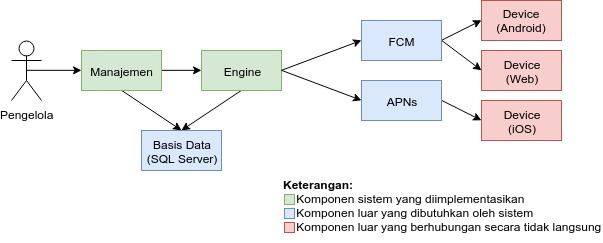
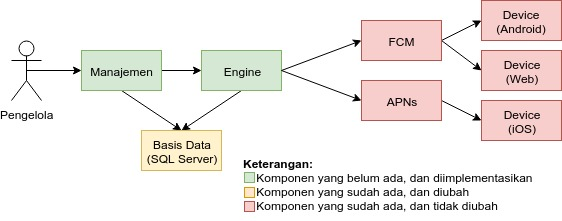
use case + revisi arsitektur

diff --git a/buku/bab3/bab3.tex b/buku/bab3/bab3.tex
@@ -21,7 +21,7 @@ Analisis yang dilakukan meliputi analisis permasalahan, deskripsi umum sistem, d
 
 \subsection{Deskripsi Umum Sistem}
 \par Push Notification Terpusat merupakan layanan yang digunakan untuk mengirim \textit{push notification} ke perangkat pengguna secara terjadwal dan \textit{asynchronous}. Alur pengiriman \textit{push notification} diawali dengan pengelola memasukkan data \textit{batch} (notifikasi yang dikirim ke beberapa pengguna atau kelompok pengguna) ke sistem basis data, lalu sistem akan mengolah data \textit{batch} menjadi \textit{packet-packet} (notifikasi yang dikirim ke satu perangkat pengguna). Setelah \textit{packet} dibuat, sistem akan mengirimkan \textit{packet} ke perangkat pengguna lewat layanan APNs dan FCM.
-\par Pada tugas akhir ini, aplikasi akan dibagi menjadi 3 modul, yaitu Scheduler, Sender APN, dan Sender FCM. Secara umum, Scheduler bertanggung jawab untuk menjadwalkan dan mengantrikan \textit{packet}, Sender APN bertanggung jawab untuk mengirimkan \textit{packet} yang diantrikan ke perangkat iOS lewat layanan APNs, dan Sender FCM bertanggung jawab untuk mengirimkan \textit{packet} yang diantrikan ke perangkat Android dan Web lewat layanan FCM.
+\par Pada tugas akhir ini, modul \textit{engine} pada Push Notification Terpusat akan dipecah menjadi 3 modul, yaitu Scheduler, Sender APN, dan Sender FCM. Secara umum, Scheduler bertanggung jawab untuk menjadwalkan dan mengantrikan \textit{packet}, Sender APN bertanggung jawab untuk mengirimkan \textit{packet} yang diantrikan ke perangkat iOS lewat layanan APNs, dan Sender FCM bertanggung jawab untuk mengirimkan \textit{packet} yang diantrikan ke perangkat Android dan Web lewat layanan FCM.
 
 \subsection{Spesifikasi Kebutuhan Perangkat Lunak}
 \par Subbab ini membahas spesifikasi kebutuhan perangkat lunak dari hasil analisis yang telah dilakukan. Subbab ini berisi kebutuhan perangkat lunak yang direpresentasikan dalam bentuk kebutuhan fungsional, kebutuhan non fungsional, dan diagram kasus penggunaan.
@@ -31,6 +31,7 @@ Analisis yang dilakukan meliputi analisis permasalahan, deskripsi umum sistem, d
 \begin{longtable}{|p{2cm}|p{7cm}|}
     \caption{Aktor pada Sistem} \label{t:aktor} \\ \hline
     \rowcolor{lightgray} Aktor & Tugas \\ \hline
+    Manajemen & Membuat \textit{batch} dan melakukan pemantauan. \\ \hline
     Scheduler & Membuat dan menjadwalkan pengiriman \textit{packet}. \\ \hline
     Sender APN & Mengirimkan \textit{packet} untuk perangkat iOS. \\ \hline
     Sender FCM & Mengirimkan \textit{packet} notifikasi untuk perangkat Android dan Web. \\ \hline
@@ -63,10 +64,18 @@ Analisis yang dilakukan meliputi analisis permasalahan, deskripsi umum sistem, d
 \end{longtable}
 
 \subsubsection{Kasus Penggunaan}
-\par Subbab ini membahas kasus penggunaan perangkat lunak secara rinci. Kasus penggunaan dibuat berdasarkan hasil analisis yang pada subbab sebelumnya. Diagram kasus penggunaan untuk setiap modul (Scheduler, Sender APN, dan Sender FCM) aplikasi \textit{push notification} terpusat dapat dilihat pada Gambar \ref{diagram_kasus_penggunaan}.
+\par Subbab ini membahas kasus penggunaan perangkat lunak secara rinci. Kasus penggunaan dibuat berdasarkan hasil analisis yang pada subbab sebelumnya. Diagram kasus penggunaan modul Scheduler, Sender APN, dan Sender FCM dapat dilihat pada Gambar \ref{img:uc-scheduler}, \ref{img:uc-sender_apn}, dan \ref{img:uc-sender_fcm}.
 \begin{figure}[H]
-    \includegraphics[width=1\textwidth]{bab3/figures/diagram_kasus_penggunaan.jpg}
-    \caption{Diagram Kasus Penggunaan} \label{diagram_kasus_penggunaan}
+    \centering\includegraphics[width=0.7\textwidth]{bab3/img/usecase-scheduler.jpg}
+    \caption{Diagram Kasus Penggunaan Scheduler} \label{img:uc-scheduler}
+\end{figure}
+\begin{figure}[H]
+	\centering\includegraphics[width=0.7\textwidth]{bab3/img/usecase-sender_apn.jpg}
+	\caption{Diagram Kasus Penggunaan Sender APN} \label{img:uc-sender_apn}
+\end{figure}
+\begin{figure}[H]
+	\centering\includegraphics[width=0.7\textwidth]{bab3/img/usecase-sender_fcm.jpg}
+	\caption{Diagram Kasus Penggunaan Sender FCM} \label{img:uc-sender_fcm}
 \end{figure}
 
 % template tabel deskripsi kasus penggunaan
@@ -90,14 +99,15 @@ Analisis yang dilakukan meliputi analisis permasalahan, deskripsi umum sistem, d
 {t:skenario_pembuatan_packet}
 {UC-01}
 {Pembuatan \textit{Packet}}
-{Scheduler}
+{Manajemen}
 {Terdapat \textit{batch} yang belum dan boleh dibuatkan \textit{packet}}
 {\textit{Packet} dibuat untuk \textit{batch} tersebut}
 {
 \begin{enumerate}
-    \item Aktor memeriksa apakah terdapat \textit{batch} yang belum dan boleh dibuatkan \textit{packet}.
-    \item Aktor membuatkan data \textit{packet} dari batch tersebut.
-    \item Aktor menyimpan data \textit{packet} dan memperbarui data \textit{batch}.
+	\item Aktor menambahkan data \textit{batch} baru ke sistem basis data.
+    \item Scheduler mendeteksi data \textit{batch} yang belum dan boleh dibuatkan \textit{packet}.
+    \item Scheduler membuatkan data \textit{packet} dari \textit{batch} tersebut.
+    \item Scheduler menyimpan data \textit{packet} dan memperbarui data waktu pengolahan \textit{batch}.
 \end{enumerate}
 }
 {-}
@@ -108,14 +118,16 @@ Analisis yang dilakukan meliputi analisis permasalahan, deskripsi umum sistem, d
 {t:skenario_menambahkan_packet_ke_antrian}
 {UC-02}
 {Menambahkan \textit{Packet} ke Antrian}
-{Scheduler}
+{Manajemen}
 {Terdapat \textit{packet} yang belum dan sudah waktunya dikirim}
 {\textit{Packet} ditambahkan ke antrian}
 {
 \begin{enumerate}
-    \item Aktor memeriksa apakah terdapat \textit{packet} yang belum dan sudah waktunya dikirim.
-    \item Aktor menambahkan \textit{packet} ke dalam antrian dengan pembagian topik berdasarkan tipe target perangkat.
-    \item Aktor memperbarui data \textit{packet} (status sedang menunggu).
+    \item Aktor menambahkan data \textit{batch} baru ke sistem basis data.
+    \item Scheduler membuatkan \textit{packet} untuk \textit{batch} tersebut.
+    \item Scheduler mendeteksi data \textit{packet} yang belum dan sudah waktunya dikirim.
+    \item Scheduler memperbarui data status \textit{packet} menjadi menunggu untuk diolah.
+    \item Scheduler menambahkan \textit{packet} ke antrian dengan menggunakan tipe perangkat sebagai topik.
 \end{enumerate}
 }
 {-}
@@ -126,14 +138,15 @@ Analisis yang dilakukan meliputi analisis permasalahan, deskripsi umum sistem, d
 {t:skenario_pengiriman_packet_ke_apns}
 {UC-03}
 {Pengiriman \textit{Packet} ke APNs}
-{Sender APN}
+{Scheduler}
 {Terdapat \textit{packet} di antrian topik iOS}
 {\textit{Packet} diterima oleh layanan APNs}
 {
 \begin{enumerate}
-    \item Aktor menerima \textit{packet} dari antrian topik iOS.
-    \item Aktor mengirimkan \textit{request push notification} ke layanan APNs berdasarkan data \textit{packet}.
-    \item Aktor memperbarui data \textit{packet} berdasarkan \textit{response} dari APNs (berhasil atau gagal dan alasan gagal).
+	\item Aktor menambahkan \textit{packet} ke antrian topik iOS.
+    \item Sender APN menerima \textit{packet} dari antrian topik iOS.
+    \item Sender APN mengirimkan \textit{request push notification} ke layanan APNs berdasarkan data \textit{packet}.
+    \item Sender APN memperbarui data \textit{packet} berdasarkan \textit{response} dari APNs (berhasil atau gagal dan alasan gagal).
 \end{enumerate}
 }
 {-}
@@ -144,69 +157,70 @@ Analisis yang dilakukan meliputi analisis permasalahan, deskripsi umum sistem, d
 {t:skenario_pengiriman_packet_ke_fcm}
 {UC-04}
 {Pengiriman \textit{Packet} ke FCM}
-{Sender FCM}
+{Scheduler}
 {Terdapat \textit{packet} di antrian topik Android atau Web}
 {Packet diterima oleh layanan FCM}
 {
 \begin{enumerate}
-    \item Aktor menerima packet dari antrian topik Android atau Web.
-    \item Aktor mengirimkan \textit{request push notification} ke layanan FCM berdasarkan data \textit{packet}.
-    \item Aktor memperbarui data \textit{packet} berdasarkan \textit{response} dari FCM (berhasil atau gagal dan alasan gagal).
+	\item Aktor menambahkan \textit{packet} ke antrian topik Android atau Web.
+    \item Sender FCM menerima packet dari antrian topik Android atau Web.
+    \item Sender FCM mengirimkan \textit{request push notification} ke layanan FCM berdasarkan data \textit{packet}.
+    \item Sender FCM memperbarui data \textit{packet} berdasarkan \textit{response} dari FCM (berhasil atau gagal dan alasan gagal).
 \end{enumerate}
 }
 {-}
 
 \paragraph{Menampilkan Penggunaan Sumber Daya}
-\par Pada kasus ini, Scheduler, Sender APN, dan Sender FCM dapat menampilkan penggunaan sumber daya (CPU dan Memori) yang digunakan aplikasi dengan menggunakan REST API. Rincian skenario dapat dilihat pada Tabel \ref{t:skenario_menampilkan_penggunaan_sumber_daya}.
+\par Pada kasus ini, Scheduler, Sender APN, dan Sender FCM dapat menampilkan penggunaan sumber daya (CPU dan Memori) yang digunakan aplikasi. Rincian skenario dapat dilihat pada Tabel \ref{t:skenario_menampilkan_penggunaan_sumber_daya}.
 \tableUcDesc
 {t:skenario_menampilkan_penggunaan_sumber_daya}
 {UC-05}
 {Menampilkan Penggunaan Sumber Daya}
-{Scheduler, Sender APN, Sender FCM}
-{Aktor menerima \textit{request} HTTP}
-{Aktor mengembalikan \textit{response} HTTP}
+{Manajemen}
+{Aktor mengirimkan \textit{request} HTTP untuk melihat penggunaan sumber daya}
+{Sistem mengembalikan \textit{response} HTTP}
 {
-	\begin{enumerate}
-		\item Aktor menerima \textit{request} HTTP untuk melihat penggunaan sumber daya.
-		\item Aktor memeriksa metrik penggunaan sumber daya dari sistem operasi.
-		\item Aktor mengembalikan hasil pemeriksaan penggunaan sumber daya dalam bentuk \textit{response} HTTP.
-	\end{enumerate}
+\begin{enumerate}
+	\item Aktor mengirimkan \textit{request} HTTP untuk melihat penggunaan sumber daya.
+	\item Scheduler, Sender APN, atau Sender FCM memeriksa metrik penggunaan sumber daya dari sistem operasi.
+	\item Scheduler, Sender APN, atau Sender FCM mengembalikan hasil pemeriksaan penggunaan sumber daya dalam bentuk \textit{response} HTTP.
+\end{enumerate}
 }
 {-}
 
 \paragraph{Menampilkan Status Kesehatan}
-\par Pada kasus ini, Scheduler, Sender APN, dan Sender FCM dapat menampilkan status kesehatan aplikasi dan layanan yang terhubung dengan aplikasi dengan menggunakan REST API. Rincian skenario dapat dilihat pada Tabel \ref{t:skenario_menampilkan_status_kesehatan}.
+\par Pada kasus ini, Scheduler, Sender APN, dan Sender FCM dapat menampilkan status kesehatan aplikasi dan layanan yang terhubung dengan aplikasi. Rincian skenario dapat dilihat pada Tabel \ref{t:skenario_menampilkan_status_kesehatan}.
 \tableUcDesc
 {t:skenario_menampilkan_status_kesehatan}
 {UC-06}
 {Menampilkan Status Kesehatan}
-{Scheduler, Sender APN, Sender FCM}
-{Aktor menerima request HTTP}
-{Aktor mengembalikan response HTTP}
+{Manajemen}
+{Manajemen mengirimkan \textit{request} HTTP untuk melihat status kesehatan}
+{Sistem mengembalikan \textit{response} HTTP}
 {
-	\begin{enumerate}
-		\item Aktor menerima \textit{request} HTTP untuk melihat status kesehatan.
-		\item Aktor memeriksa apakah aktor dapat terhubung ke layanan-layanan yang dibutuhkan oleh aktor untuk beroperasi.
-		\item Aktor mengembalikan status (bisa diakses atau tidak) layanan-layanan yang dibutuhkan dalam bentuk \textit{response} HTTP.
-	\end{enumerate}
+\begin{enumerate}
+	\item Aktor mengirimkan \textit{request} HTTP untuk melihat status kesehatan.
+	\item Scheduler, Sender APN, atau Sender FCM memeriksa apakah aktor dapat terhubung ke layanan-layanan yang dibutuhkan oleh aktor untuk beroperasi.
+	\item Scheduler, Sender APN, atau Sender FCM mengembalikan status (bisa diakses atau tidak) layanan-layanan yang dibutuhkan dalam bentuk \textit{response} HTTP.
+\end{enumerate}
 }
 {-}
 
 \paragraph{Menampilkan Konfigurasi}
-\par Pada kasus ini, Scheduler, Sender APN, dan Sender FCM dapat menampilkan konfigurasi aplikasi dengan menggunakan REST API. Rincian skenario dapat dilihat pada Tabel \ref{t:skenario_menampilkan_konfigurasi}.
+\par Pada kasus ini, Scheduler, Sender APN, dan Sender FCM dapat menampilkan konfigurasi aplikasi. Rincian skenario dapat dilihat pada Tabel \ref{t:skenario_menampilkan_konfigurasi}.
 \tableUcDesc
 {t:skenario_menampilkan_konfigurasi}
 {UC-07}
 {Menampilkan Konfigurasi}
-{Scheduler, Sender APN, Sender FCM}
-{Aktor menerima \textit{request} HTTP}
-{Aktor mengembalikan \textit{response} HTTP}
+{Manajemen}
+{Aktor mengirimkan \textit{request} HTTP untuk melihat konfigurasi}
+{Sistem mengembalikan \textit{response} HTTP}
 {
 	\begin{enumerate}
-		\item Aktor menerima \textit{request} HTTP untuk melihat konfigurasi aplikasi.
-		\item Aktor memeriksa konfigurasi \textit{Spring} yang ada di aplikasi.
-		\item Aktor memeriksa \textit{environment variable} yang ada di sistem operasi.
-		\item Aktor mengembalikan konfigurasi \textit{Spring} dan \textit{environment variable} yang ada dalam bentuk \textit{response} HTTP.
+		\item Aktor mengirimkan \textit{request} HTTP untuk melihat konfigurasi aplikasi.
+		\item Scheduler, Sender APN, atau Sender FCM memeriksa konfigurasi \textit{Spring} yang digunakan.
+		\item Scheduler, Sender APN, atau Sender FCM memeriksa \textit{environment variable} yang ada di sistem operasi.
+		\item Scheduler, Sender APN, atau Sender FCM mengembalikan konfigurasi \textit{Spring} dan \textit{environment variable} yang ada dalam bentuk \textit{response} HTTP.
 	\end{enumerate}
 }
 {-}
@@ -217,14 +231,14 @@ Analisis yang dilakukan meliputi analisis permasalahan, deskripsi umum sistem, d
 {t:skenario_menampilkan_log}
 {UC-08}
 {Menampilkan \textit{Log}}
-{Scheduler, Sender APN, Sender FCM}
-{Aktor menerima \textit{request} HTTP}
-{Aktor mengembalikan \textit{response} HTTP}
+{Manajemen}
+{Aktor mengirimkan \textit{request} HTTP untuk melihat \textit{log}}
+{Sistem mengembalikan \textit{response} HTTP}
 {
 \begin{enumerate}
-	\item Aktor menerima \textit{request} HTTP untuk melihat log aplikasi.
-	\item Aktor mencari lokasi file \textit{log} yang digunakan aplikasi untuk menyimpan \textit{log}.
-	\item Aktor mengembalikan isi file \textit{log} dalam bentuk \textit{response} HTTP.
+	\item Aktor mengirimkan \textit{request} HTTP untuk melihat log aplikasi.
+	\item Scheduler, Sender APN, atau Sender FCM mencari lokasi file \textit{log} yang digunakan untuk menyimpan \textit{log}.
+	\item Scheduler, Sender APN, atau Sender FCM mengembalikan isi file \textit{log} dalam bentuk \textit{response} HTTP.
 \end{enumerate}
 }
 {-}
@@ -233,8 +247,8 @@ Analisis yang dilakukan meliputi analisis permasalahan, deskripsi umum sistem, d
 \par Subbab ini akan membahas tahapan perancangan sistem yang dibagi menjadi beberapa bagian, yaitu perancangan arsitektur, basis data, antrian pesan, dan proses.
 
 \subsection{Perancangan Arsitektur} \label{s:perancangan_arsitektur}
-\par Push Notification Terpusat akan dibagi menjadi 3 modul, yaitu Scheduler, Sender APN, dan Sender FCM. Modul Push Notification Terpusat diimplementasikan dengan bahasa pemrograman Java, dengan kerangka kerja Spring. Aplikasi saling terhubung lewat sistem antrian pesan (Kafka) dan sistem basis data (SQL Server).
-\par Untuk menjalankan sistem, modul Push Notification Terpusat, Kafka, dan Zookeeper dijalankan menggunakan Docker, dan SQL Server menggunakan server basis data ITS. Secara garis besar, aplikasi ini memiliki rancangan arsitektur yang dapat dilihat pada Gambar \ref{img:arsitektur_baru}.
+\par Modul engine pada Push Notification Terpusat akan dibagi menjadi 3 modul, yaitu Scheduler, Sender APN, dan Sender FCM. Modul Push Notification Terpusat diimplementasikan dengan bahasa pemrograman Java, dengan kerangka kerja Spring. Aplikasi saling terhubung lewat sistem antrian pesan (Kafka) dan sistem basis data (SQL Server).
+\par Untuk menjalankan sistem, modul Push Notification Terpusat, Kafka, dan Zookeeper akan dijalankan menggunakan Docker, dan SQL Server menggunakan server basis data ITS. Secara garis besar, aplikasi ini memiliki rancangan arsitektur yang dapat dilihat pada Gambar \ref{img:arsitektur_baru}.
 \begin{figure}[H]
     \includegraphics[width=1\textwidth]{bab3/img/arsitektur-push_notification_terpusat_baru.jpg}
     \caption{Arsitektur Pengiriman Notifikasi} \label{img:arsitektur_baru}

diff --git a/buku/bab2/bab2.tex b/buku/bab2/bab2.tex
@@ -23,8 +23,8 @@
 	\caption{Arsitektur Push Notification Terpusat Saat Ini}
 	\label{img:arsitektur-pnt_lama}
 \end{figure}
-\par Aplikasi terdiri dari 2 modul, yaitu manajemen dan \textit{engine}. Modul manajemen bertanggung jawab untuk menangani interaksi pengelola dengan sistem lewat halaman berbasis web, sementara modul \textit{engine} bertanggung jawab untuk mengirimkan \textit{push notification}.
-\par Pengembangan yang dilakukan pada tugas akhir ini berfokus di keandalan pengiriman \textit{push notification}, sehingga hanya modul \textit{engine} saja yang akan mengalami perubahan. 
+\par Aplikasi terdiri dari 2 modul, yaitu manajemen dan engine. Modul manajemen bertanggung jawab untuk menangani interaksi pengelola dengan sistem lewat halaman berbasis web, sementara modul engine bertanggung jawab untuk mengirimkan \textit{push notification}.
+\par Pengembangan yang dilakukan pada tugas akhir ini berfokus di keandalan pengiriman \textit{push notification}, sehingga hanya modul engine saja yang akan mengalami perubahan. 
 
 \section{iOS}
 \par iOS adalah sistem operasi perangkat bergerak yang dikembangkan oleh Apple untuk perangkat iPhone, iPad, dan iPod \cite{ios-online}.
